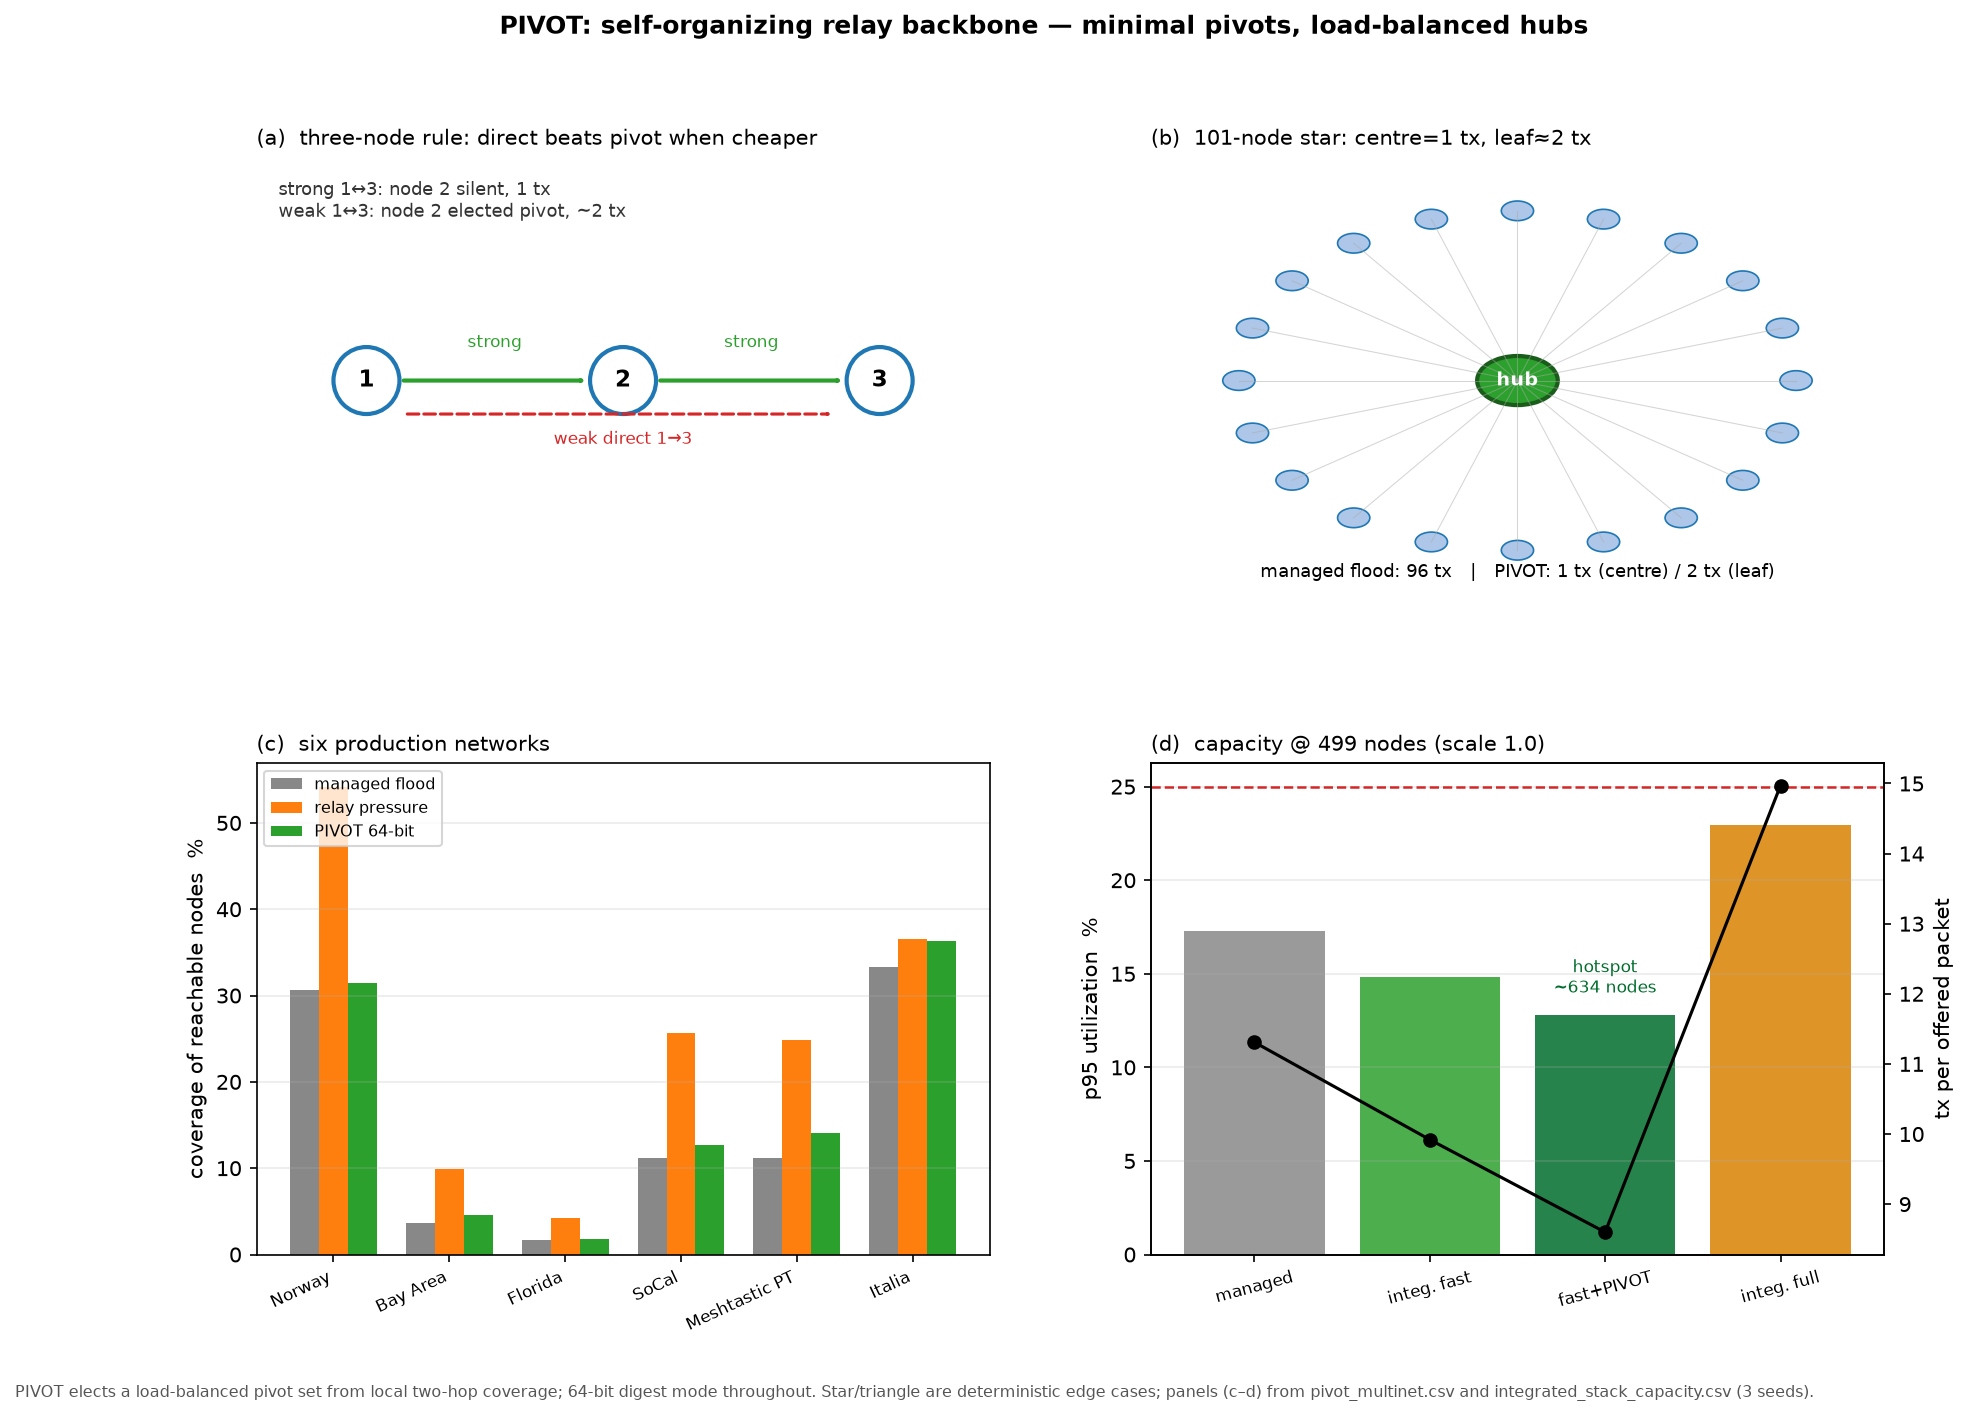
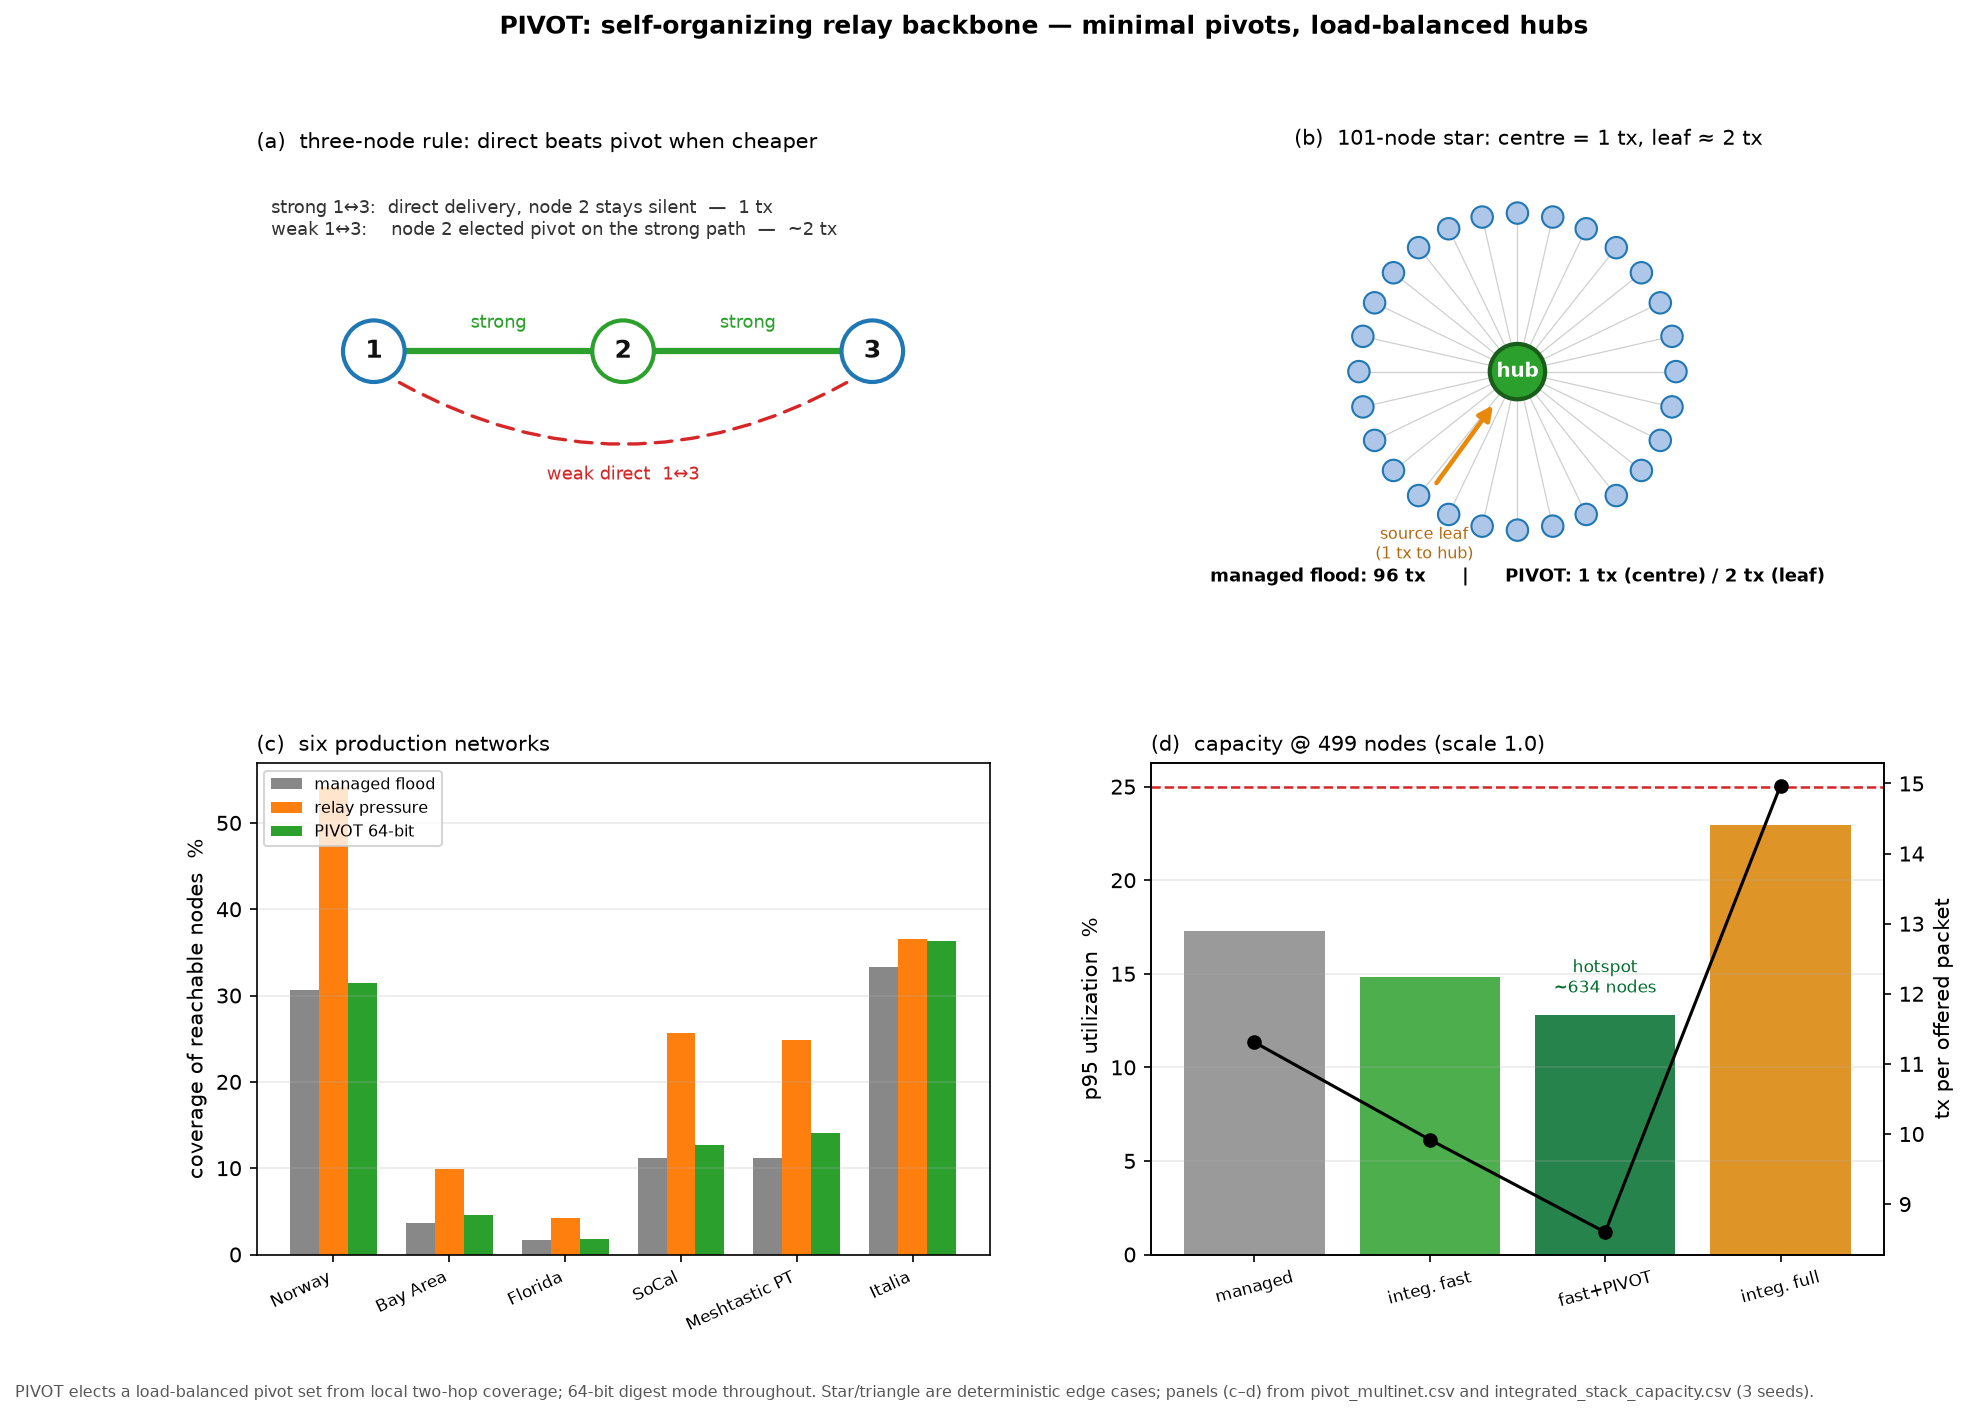
feat(paper): improve pivot visualization and figures
Update figure layouts, styling, and paper content with enhanced
three-node rule diagram and improved star topology visualization.

diff --git a/fig_pivot.py b/fig_pivot.py
@@ -10,45 +10,80 @@ from matplotlib.patches import Circle, FancyArrowPatch, FancyBboxPatch
 fig = plt.figure(figsize=(14, 9.5))
 gs = fig.add_gridspec(2, 2, height_ratios=[1, 1.1], hspace=0.34, wspace=0.22)
 
+import math
+
 ax0 = fig.add_subplot(gs[0, 0])
 ax0.set_xlim(0, 10)
 ax0.set_ylim(0, 6)
+ax0.set_aspect("equal")
 ax0.axis("off")
 ax0.set_title("(a)  three-node rule: direct beats pivot when cheaper", loc="left", fontsize=10)
 
-def node(ax, x, y, label, color="#1f77b4"):
-    ax.add_patch(Circle((x, y), 0.45, fc="white", ec=color, lw=2))
-    ax.text(x, y, label, ha="center", va="center", fontsize=11, fontweight="bold")
+def node(ax, x, y, label, r=0.42, color="#1f77b4", fc="white", tc="#111"):
+    ax.add_patch(Circle((x, y), r, fc=fc, ec=color, lw=2, zorder=4))
+    ax.text(x, y, label, ha="center", va="center", fontsize=12,
+            fontweight="bold", color=tc, zorder=5)
 
-node(ax0, 1.5, 3, "1")
-node(ax0, 5, 3, "2")
-node(ax0, 8.5, 3, "3")
-for x1, x2, lbl, col in ((1.95, 4.55, "strong", "#2ca02c"), (5.45, 8.05, "strong", "#2ca02c")):
-    ax0.add_patch(FancyArrowPatch((x1, 3), (x2, 3), arrowstyle="-|>", color=col, lw=2))
-    ax0.text((x1+x2)/2, 3.45, lbl, ha="center", fontsize=8, color=col)
-ax0.add_patch(FancyArrowPatch((2.0, 2.55), (7.9, 2.55), arrowstyle="-|>",
-                              color="#d62728", lw=1.5, ls="--"))
-ax0.text(5, 2.15, "weak direct 1\u21923", ha="center", fontsize=8, color="#d62728")
-ax0.text(0.3, 5.2, "strong 1\u21943: node 2 silent, 1 tx\n"
-         "weak 1\u21943: node 2 elected pivot, ~2 tx", fontsize=8.5, color="#333")
+yc = 3.4
+node(ax0, 1.6, yc, "1")
+node(ax0, 5.0, yc, "2", color="#2ca02c")
+node(ax0, 8.4, yc, "3")
+# strong two-hop path 1-2-3 (green, the elected corridor when direct is weak)
+for x1, x2 in ((2.02, 4.58), (5.42, 7.98)):
+    ax0.plot([x1, x2], [yc, yc], color="#2ca02c", lw=3, zorder=2, solid_capstyle="round")
+ax0.text(3.3, yc + 0.32, "strong", ha="center", fontsize=8.5, color="#2ca02c")
+ax0.text(6.7, yc + 0.32, "strong", ha="center", fontsize=8.5, color="#2ca02c")
+# weak direct 1-3 (dashed red arc curving below the nodes)
+ax0.add_patch(FancyArrowPatch((1.9, yc - 0.4), (8.1, yc - 0.4),
+                              connectionstyle="arc3,rad=0.28", arrowstyle="-",
+                              color="#d62728", lw=1.6, ls=(0, (5, 3)), zorder=1))
+ax0.text(5.0, yc - 1.75, "weak direct  1\u21943", ha="center", fontsize=8.5, color="#d62728")
+ax0.text(0.2, 5.5,
+         "strong 1\u21943:  direct delivery, node 2 stays silent  \u2014  1 tx\n"
+         "weak 1\u21943:    node 2 elected pivot on the strong path  \u2014  ~2 tx",
+         fontsize=8.6, color="#333", va="top")
 
 # --- panel (b): 101-node star ---
 ax1 = fig.add_subplot(gs[0, 1])
 ax1.set_xlim(0, 10)
 ax1.set_ylim(0, 10)
+ax1.set_aspect("equal")
 ax1.axis("off")
-ax1.set_title("(b)  101-node star: centre=1 tx, leaf\u22482 tx", loc="left", fontsize=10)
-ax1.add_patch(Circle((5, 5), 0.55, fc="#2ca02c", ec="#1a5c1a", lw=2))
-ax1.text(5, 5, "hub", ha="center", va="center", fontsize=9, color="white", fontweight="bold")
-for ang in range(0, 360, 18):
-    import math
-    r = 3.8
-    x = 5 + r * math.cos(math.radians(ang))
-    y = 5 + r * math.sin(math.radians(ang))
-    ax1.add_patch(Circle((x, y), 0.22, fc="#aec7e8", ec="#1f77b4", lw=0.8))
-    ax1.plot([5, x], [5, y], color="#aaa", lw=0.5, alpha=0.5)
-ax1.text(5, 0.6, "managed flood: 96 tx   |   PIVOT: 1 tx (centre) / 2 tx (leaf)",
-         ha="center", fontsize=8.5)
+ax1.set_title("(b)  101-node star: centre = 1 tx, leaf \u2248 2 tx", loc="left", fontsize=10)
+
+cx, cy, r = 5.0, 5.2, 3.55
+n_leaves = 28
+src_ang = 234                                   # one highlighted source leaf
+leaves = []
+for k in range(n_leaves):
+    ang = 360 * k / n_leaves
+    x = cx + r * math.cos(math.radians(ang))
+    y = cy + r * math.sin(math.radians(ang))
+    leaves.append((ang, x, y))
+
+# hub -> every leaf: one broadcast reaches all (the second tx)
+for ang, x, y in leaves:
+    ax1.plot([cx, x], [cy, y], color="#bbb", lw=0.6, alpha=0.7, zorder=1)
+# highlighted source leaf's report to the hub (the first tx)
+sx = cx + r * math.cos(math.radians(src_ang))
+sy = cy + r * math.sin(math.radians(src_ang))
+ax1.add_patch(FancyArrowPatch((sx, sy), (cx, cy), arrowstyle="-|>",
+                              color="#e8890c", lw=2.2, mutation_scale=14,
+                              shrinkA=10, shrinkB=20, zorder=3))
+# leaves
+for ang, x, y in leaves:
+    is_src = abs(ang - src_ang) < 1
+    ax1.add_patch(Circle((x, y), 0.30 if is_src else 0.24,
+                         fc="#e8890c" if is_src else "#aec7e8",
+                         ec="#b5650a" if is_src else "#1f77b4", lw=1.0, zorder=4))
+# hub
+ax1.add_patch(Circle((cx, cy), 0.62, fc="#2ca02c", ec="#1a5c1a", lw=2, zorder=5))
+ax1.text(cx, cy, "hub", ha="center", va="center", fontsize=9.5,
+         color="white", fontweight="bold", zorder=6)
+ax1.annotate("source leaf\n(1 tx to hub)", (sx, sy), fontsize=7.8, color="#b5650a",
+             ha="center", va="top", xytext=(0, -12), textcoords="offset points")
+ax1.text(cx, 0.5, "managed flood: 96 tx      |      PIVOT: 1 tx (centre) / 2 tx (leaf)",
+         ha="center", fontsize=8.8, fontweight="bold")
 
 # --- panel (c): six-network scorecard ---
 ax2 = fig.add_subplot(gs[1, 0])